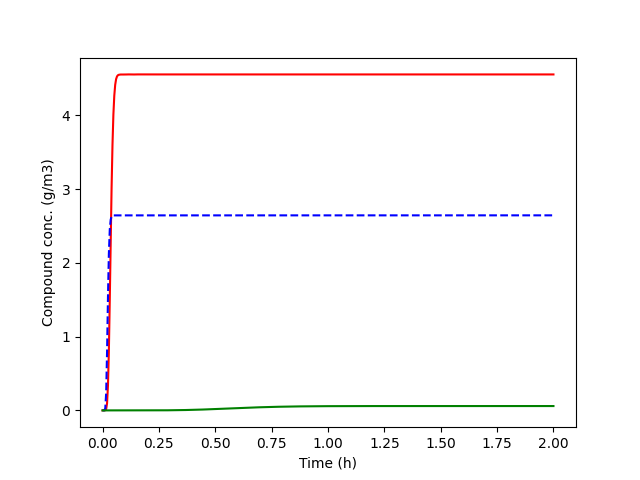
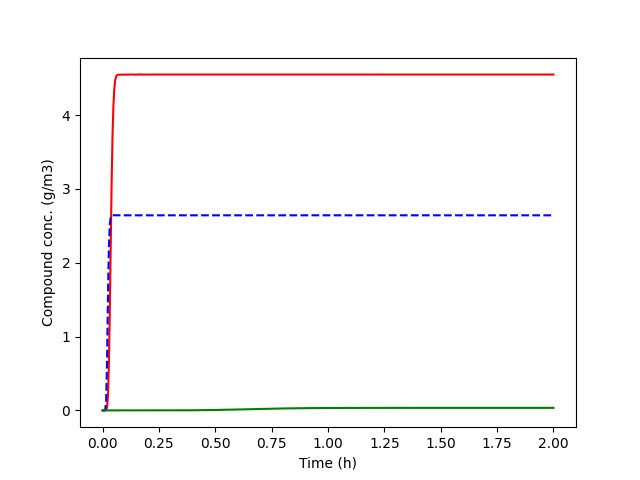
update demo 4 w new por var names

diff --git a/demos/04_ionization/tfmod.py b/demos/04_ionization/tfmod.py
@@ -57,15 +57,15 @@ def rates(t, mc, v_g, v_l, cgin, vol_gas, vol_liq, vol_tot, k, Kga, Daw):
     return dm
 
 # Model function
-def tfmod(L, gas, liq, v_g, v_l, nc, cg0, cl0, cgin, Kga, k, henry, pKa, pH, temp, dens, times):
+def tfmod(L, por_g, por_l, v_g, v_l, nc, cg0, cl0, cgin, Kga, k, henry, pKa, pH, temp, dens, times):
 
     ## Note that units are defined per 1 m2 filter cross-sectional (total) area 
     ## Below, where 2 sets of units are given this applies to the first case
     ## For the second one, the cross-sectional area is used to normalize the unit
     ## The two are mathematically equivalent
     # L = total longitudinal length/height of reactor/filter (m)
-    # gas = gas phase porosity (m3/m3 = m3(g)/m3(t) where g = gas and t = total)
-    # liq = liquid phase content (m3/m3 = m3(l)/m3(t) where l = liquid)
+    # por_g = gas phase porosity (m3/m3 = m3(g)/m3(t) where g = gas and t = total)
+    # por_l = liquid phase content (m3/m3 = m3(l)/m3(t) where l = liquid)
     # v_g = gas flow rate (m3/s) (m3/m2-s = m3(g)/m2(t)-s = superficial velocity in m/s)
     # v_l = liquid flow rate (m3/s) (m3/m2-s = m3(g)/m2(t)-s = superficial velocity in m/s)
     # nc = number of cells (layers)
@@ -79,8 +79,8 @@ def tfmod(L, gas, liq, v_g, v_l, nc, cg0, cl0, cgin, Kga, k, henry, pKa, pH, tem
     # dens = solution (liquid) density (kg/m3)
 
     # Retention time (s)
-    rt_gas = L * gas / v_g
-    rt_liq = L * liq / v_l
+    rt_gas = L * por_g / v_g
+    rt_liq = L * por_l / v_l
 
     # Ideal gas constant (L bar / K-mol)
     R = 0.083144 
@@ -113,9 +113,9 @@ def tfmod(L, gas, liq, v_g, v_l, nc, cg0, cl0, cgin, Kga, k, henry, pKa, pH, tem
     # Total
     vol_tot = dx * 1
     # Gas
-    vol_gas = vol_tot * gas 
+    vol_gas = vol_tot * por_g 
     # Liquid
-    vol_liq = vol_tot * liq 
+    vol_liq = vol_tot * por_l 
     
     # Compound conc (g/m3) and mass (g) (g/m2)
     # cc = concentration, mc = mass [position]

diff --git a/demos/04_ionization/demo.py b/demos/04_ionization/demo.py
@@ -14,11 +14,11 @@ from tfmod import tfmod
 # Set model inputs ~~~~~~~~~~~~~~~~~~~~~~~~~~~~~~~~~~~~~~~~~~~~~~~~~~~~~~~~~~~~~~~~
 # See notes in tfmod.py for more complete descriptions
 L = 2            # Filter length/depth (m)
-gas = 0.5        # (m3/m3)
-liq = 0.25       # (m3/m3)
+por_g = 0.5      # (m3/m3)
+por_l = 0.25     # (m3/m3)
 v_g = 0.03       # Air flow (m/s)
 v_l = 2E-5       # Water flow (m/s)
-nc = 20          # Number of model cells (layers)
+nc = 30          # Number of model cells (layers)
 cg0 = 0          # (g/m3)
 cl0 = 0          # (g/m3)
 cgin = 1.        # Dirty air compound concentration (g/m3)
@@ -43,19 +43,19 @@ times = np.linspace(0, tt, nt) * 3600
 
 # Scenarios ~~~~~~~~~~~~~~~~~~~~~~~~~~~~~~~~~~~~~~~~~~~~~~~~~~~~~~~~~~~~~~~~~~~~~~~
 # Sim 1 pH = pKa
-pred1 = tfmod(L = L, gas = gas, liq = liq, v_g = v_g, v_l = v_l, nc = nc, cg0 = cg0, 
+pred1 = tfmod(L = L, por_g = por_g, por_l = por_l, v_g = v_g, v_l = v_l, nc = nc, cg0 = cg0, 
               cl0 = cl0, cgin = cgin, Kga = Kga, k = k, henry = henry, pKa = pKa, 
               pH = pH, temp = temp, dens = dens, times = times)
 
 # Sim 2 low pH ~~~~~~~~~~~~~~~~~
 pH = 5
-pred2 = tfmod(L = L, gas = gas, liq = liq, v_g = v_g, v_l = v_l, nc = nc, cg0 = cg0, 
+pred2 = tfmod(L = L, por_g = por_g, por_l = por_l, v_g = v_g, v_l = v_l, nc = nc, cg0 = cg0, 
               cl0 = cl0, cgin = cgin, Kga = Kga, k = k, henry = henry, pKa = pKa, 
               pH = pH, temp = temp, dens = dens, times = times)
 
 # Sim 3 high pH ~~~~~~~~~~~~~~~~
 pH = 9
-pred3 = tfmod(L = L, gas = gas, liq = liq, v_g = v_g, v_l = v_l, nc = nc, cg0 = cg0, 
+pred3 = tfmod(L = L, por_g = por_g, por_l = por_l, v_g = v_g, v_l = v_l, nc = nc, cg0 = cg0, 
               cl0 = cl0, cgin = cgin, Kga = Kga, k = k, henry = henry, pKa = pKa, 
               pH = pH, temp = temp, dens = dens, times = times)
 
